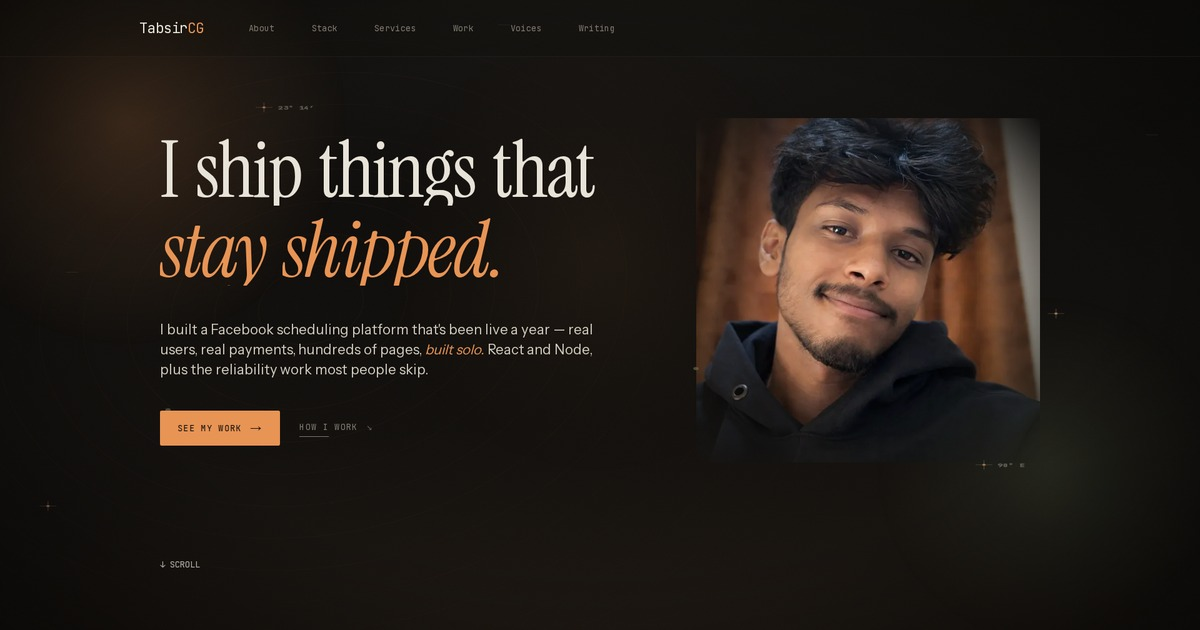
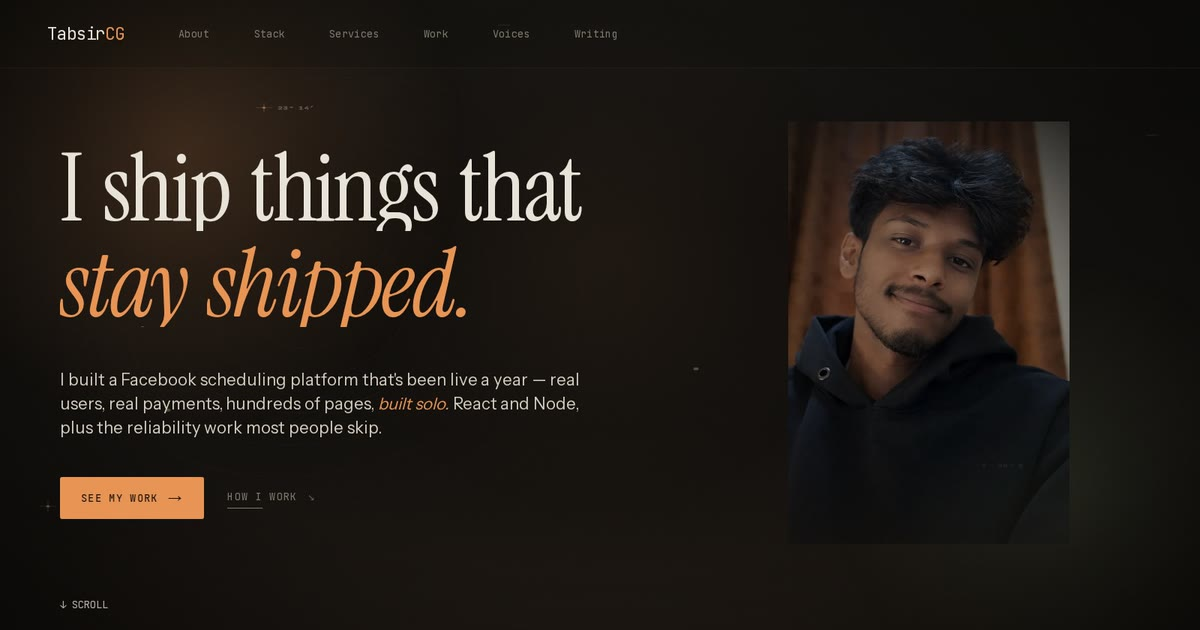
feat(portfolio): zoom out & darken hero portrait, reshoot OG card
object-contain (was cover, cropped too tight) + brightness(0.6); reshoot og.jpg to match.

diff --git a/apps/portfolio/src/components/portfolio/hero.tsx b/apps/portfolio/src/components/portfolio/hero.tsx
@@ -118,8 +118,9 @@ export function Hero({ photo }: { photo: string }) {
               fill
               priority
               sizes="(max-width: 1280px) 50vw, 400px"
-              className="object-cover object-[50%_20%]"
+              className="object-contain object-center"
               style={{
+                filter: "brightness(0.6)",
                 WebkitMaskImage: portraitMask,
                 maskImage: portraitMask,
               }}
